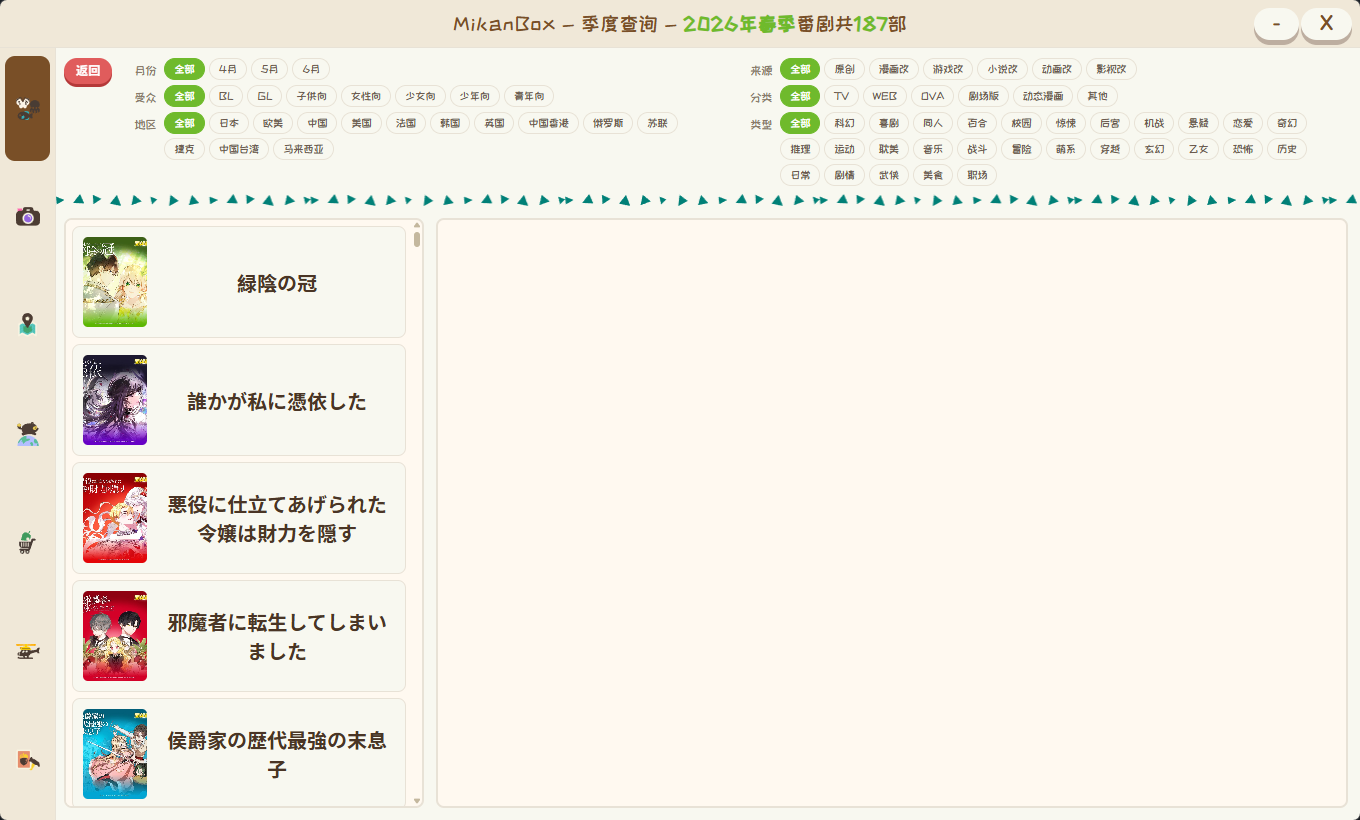
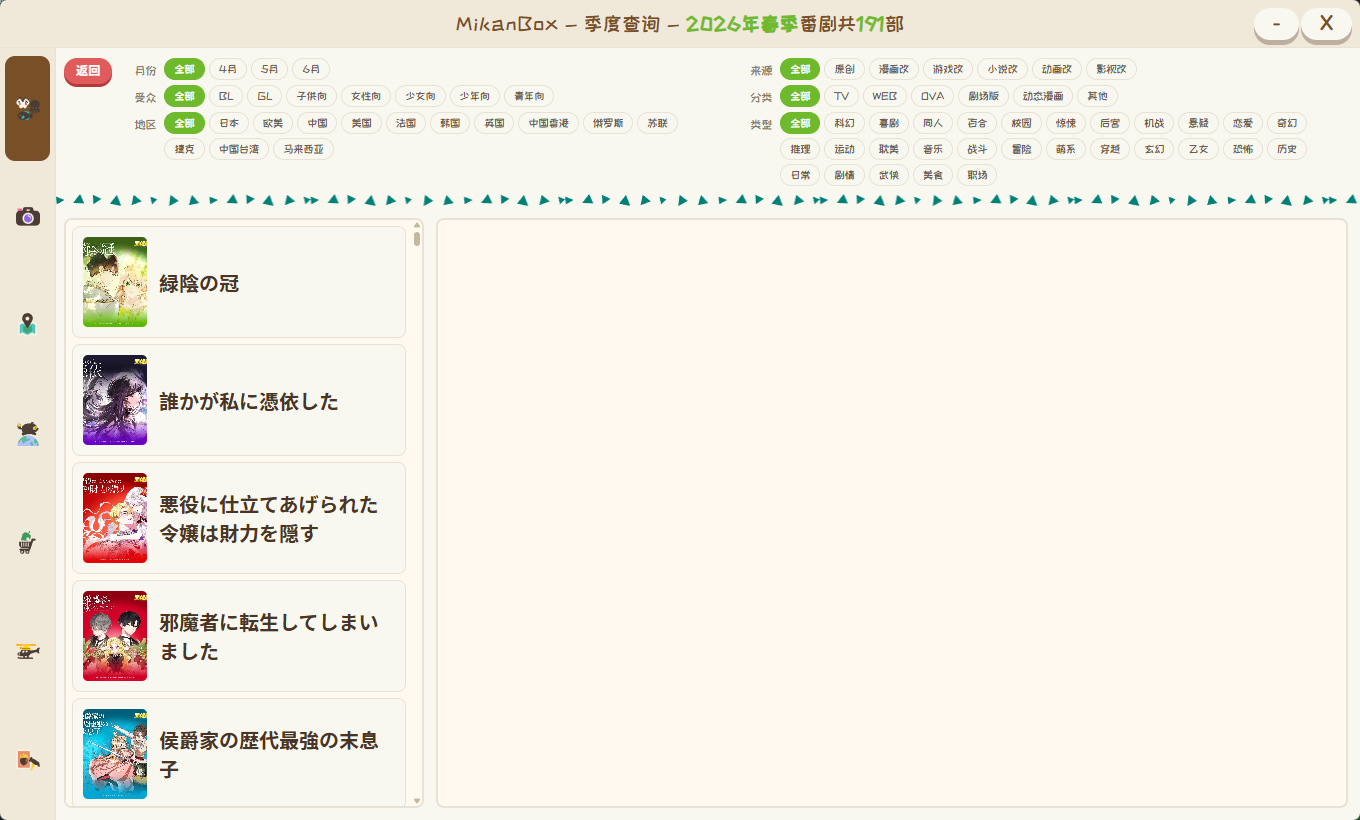
docs(testing): complete download management and track workshop test sections
- Add download management test procedures (states, interrupt, resume, complete)
- Add track workshop test procedures (add files, layout, queue, lifecycle)
- Rename and add 14 new screenshots with 08-/09- prefix convention
- Add visible text labels to screenshot tables for better readability
- Update cspell dictionary with new domain terms

diff --git a/.github/docs/testing/manual-test-guide.md b/.github/docs/testing/manual-test-guide.md
@@ -45,10 +45,10 @@ $ vite
 
 | 季度查询 | 正在追番 |
 | ---------- | ---------- |
-| ![季度查询](screenshots/01-query-initial.png) | ![正在追番](screenshots/01-watching-initial.png) |
-| ![补番计划](screenshots/01-backlog-initial.png) | ![已完番剧](screenshots/01-finished-initial.png) |
-| ![搜索资源](screenshots/01-search-initial.png) | ![下载管理](screenshots/01-download-initial.png) |
-| ![轨道工坊](screenshots/01-tracks-initial.png) | |
+| ![季度查询](screenshots/01-query-initial.png)<br>*季度查询初始状态* | ![正在追番](screenshots/01-watching-initial.png)<br>*正在追番初始状态* |
+| ![补番计划](screenshots/01-backlog-initial.png)<br>*补番计划初始状态* | ![已完番剧](screenshots/01-finished-initial.png)<br>*已完番剧初始状态* |
+| ![搜索资源](screenshots/01-search-initial.png)<br>*搜索资源初始状态* | ![下载管理](screenshots/01-download-initial.png)<br>*下载管理初始状态* |
+| ![轨道工坊](screenshots/01-tracks-initial.png)<br>*轨道工坊初始状态* | |
 
 ---
 
@@ -445,15 +445,98 @@ $ vite
 
 ## 8. 下载管理
 
-> ⚠️ **待办**：本节测试手顺待补充。
+> **说明**：磁力链接的添加方式已在 [7. 搜索资源](#7-搜索资源) 中说明。
 
-磁力链接的添加方式已在 [7. 搜索资源](#7-搜索资源) 中说明。
+### 8.1 下载状态截图
+
+以下展示下载管理中各操作对应的界面状态：
+
+| | |
+| --- | --- |
+| ![两个正在下载](screenshots/08-download-two-active.png)<br>*两个正在下载* | ![暂停一个下载](screenshots/08-download-one-paused.png)<br>*暂停一个下载* |
+| ![暂停两个下载](screenshots/08-download-two-paused.png)<br>*暂停两个下载* | ![取消一个下载](screenshots/08-download-one-cancelled.png)<br>*取消一个下载* |
+| ![取消两个下载](screenshots/08-download-two-cancelled.png)<br>*取消两个下载* | ![删除一个记录](screenshots/08-download-one-deleted.png)<br>*删除一个记录* |
+
+### 8.2 下载中断
+
+1. 在下载进行中（参考 [8.1 下载状态截图](#81-下载状态截图)），点击顶栏 `X` 按钮关闭应用
+2. 重新执行 `yarn tauri dev` 启动应用
+3. 进入「下载管理」页面
+
+> **预期结果**：之前正在下载的任务显示为「中断」状态
+
+![下载中断](screenshots/08-download-close-interrupted.png)
+
+### 8.3 断点续传
+
+1. 在下载管理页面找到状态为「中断」的任务
+2. 点击该任务的「开始」/「继续」按钮
+
+> **预期结果**：任务从中断处恢复下载（断点续传），而非重新开始
+
+![断点续传](screenshots/08-download-resume.png)
+
+### 8.4 下载完成
+
+1. 等待下载任务完成
+
+> **预期结果**：任务显示为「完成」状态
+
+![下载完成](screenshots/08-download-complete.png)
+
+2. 点击已完成任务右侧的文件夹图标
+
+> **预期结果**：打开系统文件管理器并定位到下载文件所在目录
+
+![打开下载文件夹](screenshots/08-download-open-folder.png)
 
 ---
 
 ## 9. 轨道工坊
 
-> ⚠️ **待办**：本节测试手顺待补充。
+### 9.1 添加文件
+
+以下界面中框起来的区域均可点击添加文件，注意不支持拖拽添加。
+
+![添加文件区域](screenshots/09-tracks-add-files.png)
+
+### 9.2 默认布局与参数
+
+打开轨道工坊后，默认布局为：
+
+| 位置 | 用途 | 默认值 |
+| --- | --- | --- |
+| 左侧 | 视频/音频文件 | — |
+| 右侧 | 字幕文件 | — |
+| 音轨语言标签 | — | `ja` |
+| 字幕语言标签 | — | `zh-Hans` |
+| 输出文件夹 | — | 左侧文件所在文件夹 |
+| 输出文件名 | — | 自动生成 |
+
+所有参数均可手动更改。输出文件夹和文件名均可通过界面控件修改。
+
+![默认布局](screenshots/09-tracks-default-layout.png)
+
+### 9.3 加入队列
+
+设置完成后点击「加入队列」按钮，任务将被添加到处理队列中。
+
+![加入队列](screenshots/09-tracks-queued.png)
+
+### 9.4 关闭应用后队列清空
+
+轨道工坊的队列不进行持久化存储，关闭应用后所有任务数据将丢失：
+
+- **队列中的任务（pending）**：关闭后丢失，重开软件后任务队列为空
+- **正在执行的任务（running）**：关闭后子进程随应用退出终止，任务不会恢复
+
+> **预期结果**：重新进入「轨道工坊」页面后，「任务队列」区域显示为「尚无任务」。
+
+### 9.5 合并完成
+
+任务执行完成后，队列中显示为完成状态。
+
+![合并完成](screenshots/09-tracks-merge-complete.png)
 
 ---
 